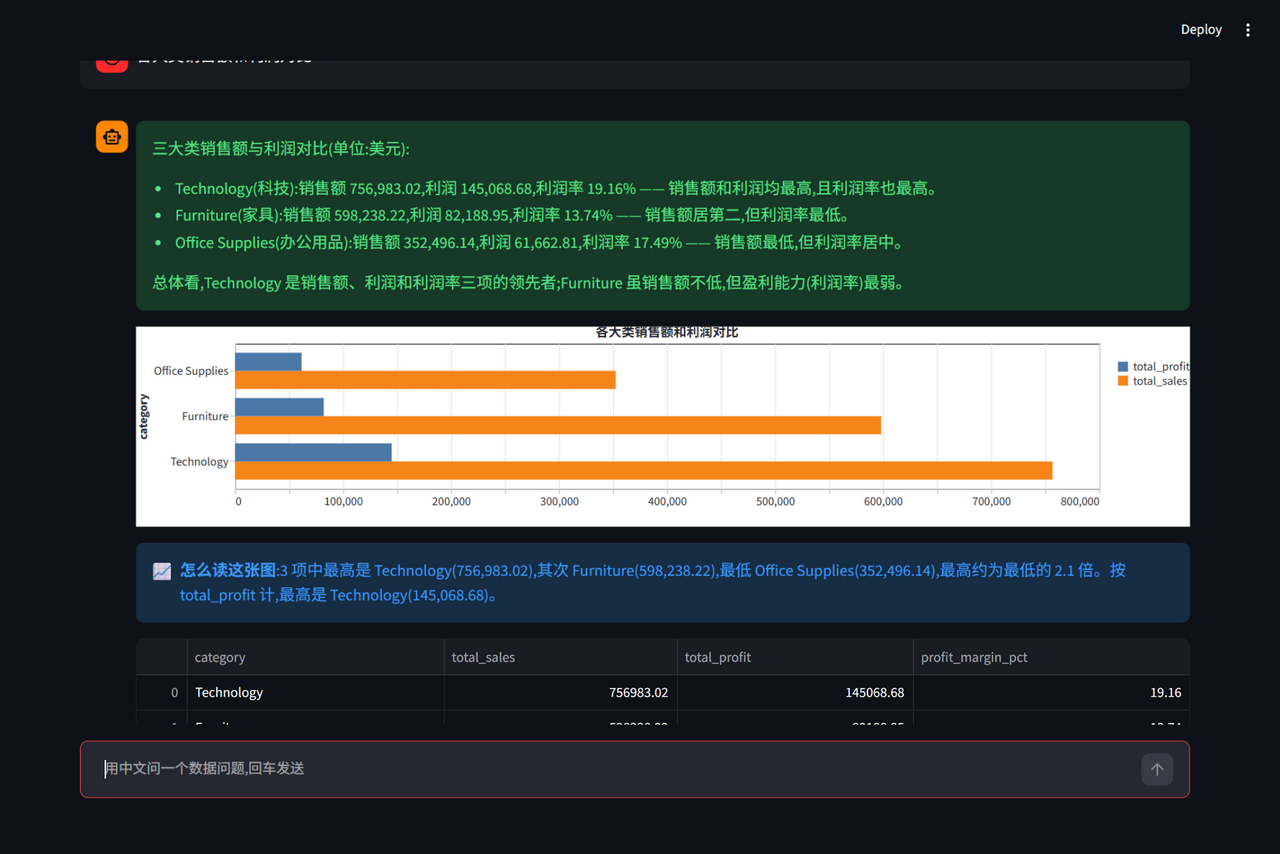
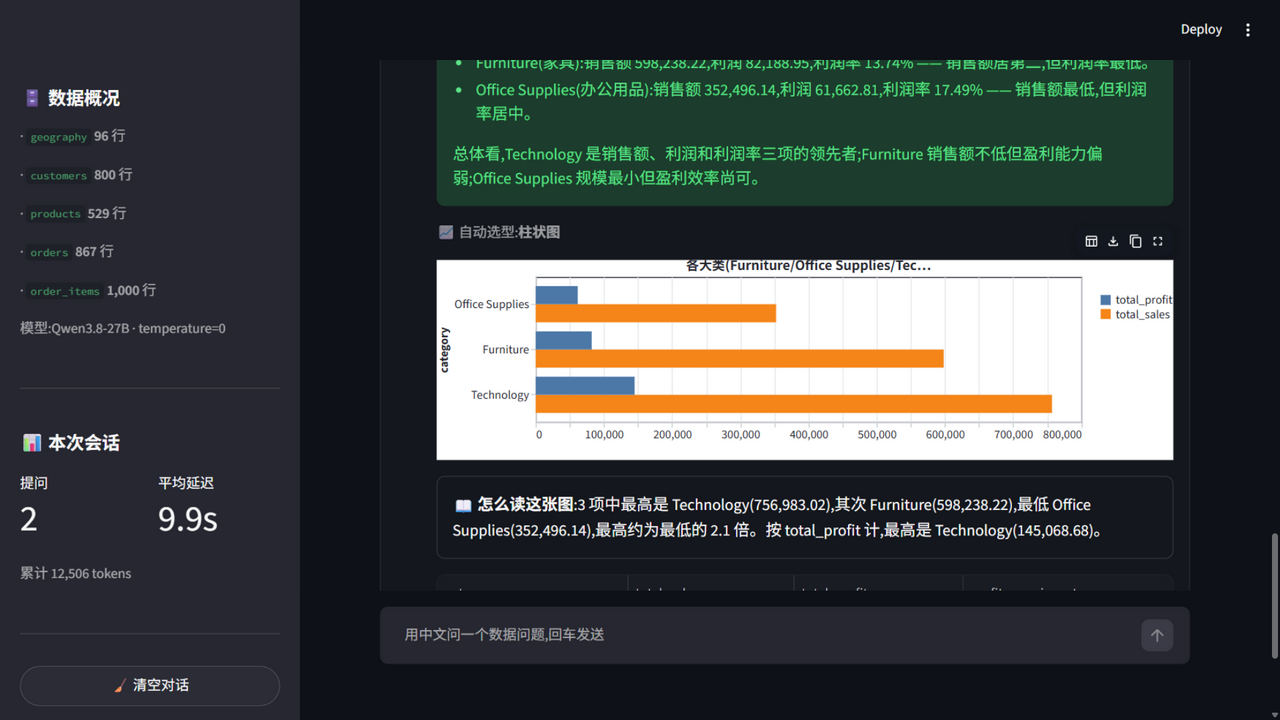
UI 重设计:渐变 hero 横幅 + 可点击示例问题(胶囊按钮直达提问)+ 侧边栏(数据概况实况行数/模型信息/会话统计/清空对话)+ 单值答案大数字 metric 展示 + 图表自动选型标注 + '怎么读这张图'边框卡片 + 统计徽章(延迟/步数/重试/反思/tokens)+ 消息卡片化与胶囊按钮 CSS(半透明配色,深浅主题通用);浏览器实测三图型渲染与点击交互正常,README 三张截图同步更新;测试 78 例

diff --git a/app/ui.py b/app/ui.py
@@ -1,4 +1,4 @@
-"""Streamlit 界面:中文提问 → 结论 + 表格 + SQL/轨迹(排查用)。
+"""Streamlit 界面:中文提问 → 图表 + 解读 + 表格 + SQL/轨迹。
 
 运行:streamlit run app/ui.py
 """
@@ -20,9 +20,62 @@ EXAMPLES = [
     "2014 年销售额最高的 5 个国家是哪些?",
     "各大类(Furniture/Office Supplies/Technology)的销售额和利润对比",
     "亚太市场按月销售额趋势",
-    "哪些客户购买了 3 次以上?列出姓名和消费总额",
-    "折扣超过 0.3 的订单明细,利润怎么样?",
+    "各市场销售额占比",
+    "哪些明细的数量为负或为 0?",
 ]
+
+_CHART_LABEL = {"bar": "柱状图", "hbar": "条形图", "line": "折线图", "arc": "饼图", "point": "散点图"}
+
+# 卡片化消息 + 胶囊按钮 + hero 横幅;颜色用半透明叠加,深浅主题都成立
+_CSS = """
+<style>
+.hero{background:linear-gradient(120deg,#0f2b46 0%,#1d4e89 55%,#2a9d8f 135%);
+ border-radius:14px;padding:22px 26px;margin-bottom:4px;color:#fff}
+.hero-title{font-size:26px;font-weight:700;letter-spacing:.5px}
+.hero-sub{opacity:.92;margin-top:6px;font-size:14.5px}
+.hero-facts{opacity:.72;margin-top:10px;font-size:12.5px}
+[data-testid="stChatMessage"]{border:1px solid rgba(128,128,128,.28);border-radius:14px;
+ padding:12px 16px !important;background:rgba(128,128,128,.05)}
+.stButton>button{border-radius:999px;font-size:12.5px;padding:2px 14px}
+[data-testid="stExpander"]{border-radius:12px}
+.badges span{opacity:.78;font-size:12.5px;margin-right:14px}
+</style>
+"""
+
+
+def _fmt_num(v) -> str:
+    if isinstance(v, float) and v != int(v):
+        return f"{v:,.2f}"
+    return f"{int(v):,}"
+
+
+@st.cache_data(ttl=600, show_spinner=False)
+def _table_counts(db_path: str) -> dict[str, int] | None:
+    try:
+        from app.db import TABLES, connect_ro
+
+        conn = connect_ro(db_path)
+        try:
+            return {t: conn.execute(f"SELECT COUNT(*) FROM {t}").fetchone()[0] for t in TABLES}
+        finally:
+            conn.close()
+    except Exception:
+        return None
+
+
+def _badges(resp: AskResponse) -> None:
+    tok = resp.stats.get("llm_tokens", 0)
+    fail = resp.stats.get("sql_failures", 0)
+    refl = resp.stats.get("reflections", 0)
+    parts = [f"⏱ {resp.latency_ms:,} ms", f"🪜 {len(resp.steps)} 步"]
+    if fail:
+        parts.append(f"🔁 SQL 重试 {fail}")
+    if refl:
+        parts.append(f"🤔 反思 {refl}")
+    if tok:
+        parts.append(f"🧮 {tok:,} tokens")
+    st.markdown('<div class="badges">' + "".join(f"<span>{p}</span>" for p in parts) + "</div>",
+                unsafe_allow_html=True)
 
 
 def _render(resp: AskResponse) -> None:
@@ -30,40 +83,41 @@ def _render(resp: AskResponse) -> None:
         st.error(f"未能完成分析:{resp.error}")
     if resp.summary:
         st.success(resp.summary)
-    if resp.row_count:
+
+    single = (
+        resp.row_count == 1 and len(resp.columns) == 1
+        and isinstance(resp.rows[0][0], (int, float))
+    )
+    if single:
+        col, _ = st.columns([1, 2])
+        col.metric(resp.columns[0], _fmt_num(resp.rows[0][0]))
+        _badges(resp)
+    if resp.row_count and not single:
         if resp.chart_spec:
+            label = _CHART_LABEL.get(resp.chart_spec["mark"]["type"], "图表")
+            st.caption(f"📈 自动选型:**{label}**")
             # theme=None:关闭 Streamlit 的 vega 主题接管(深色模式下它会把文字刷成浅色,
             # 叠在 spec 自带的白底上看不清);spec 内已显式钉死深色文字,双保险
             st.vega_lite_chart(resp.chart_spec, use_container_width=True, theme=None)
         if resp.chart_reading:
-            st.info(f"📈 **怎么读这张图**:{resp.chart_reading}")
-        st.dataframe(pd.DataFrame(resp.rows, columns=resp.columns), use_container_width=True)
-        st.caption(f"{resp.row_count} 行 · {resp.latency_ms} ms")
-    with st.expander("SQL 与执行轨迹"):
+            with st.container(border=True):
+                st.markdown(f"**📖 怎么读这张图**:{resp.chart_reading}")
+        st.dataframe(pd.DataFrame(resp.rows, columns=resp.columns),
+                     use_container_width=True, hide_index=True)
+        st.caption(f"{resp.row_count} 行")
+        _badges(resp)
+    elif not single:
+        _badges(resp)
+    with st.expander("🔍 SQL 与执行轨迹"):
         if resp.sql:
             st.code(resp.sql, language="sql")
         for s in resp.steps:
             icon = "✅" if s.ok else "❌"
-            st.markdown(f"{icon} **步骤{s.step} · {s.tool}** `{s.args}`")
+            st.markdown(f"{icon} **步骤{s.step} · `{s.tool}`** `{s.args}`")
             st.caption(s.detail)
 
 
-st.set_page_config(page_title="ChatBI · 电商订单分析", page_icon="📊", layout="wide")
-st.title("ChatBI · 电商订单分析")
-st.caption("中文提问 → 生成 SQL → 执行 → 图表 + 表格 + 结论(Global Superstore,2012-2015)")
-st.markdown("**示例问题:** " + " · ".join(f"`{e}`" for e in EXAMPLES))
-
-if "history" not in st.session_state:
-    st.session_state.history: list[AskResponse] = []
-
-for resp in st.session_state.history:
-    with st.chat_message("user"):
-        st.write(resp.question)
-    with st.chat_message("assistant"):
-        _render(resp)
-
-question = st.chat_input("用中文问一个数据问题,回车发送")
-if question:
+def _handle(question: str) -> None:
     with st.chat_message("user"):
         st.write(question)
     with st.chat_message("assistant"):
@@ -71,3 +125,74 @@ if question:
             resp = get_service().ask(question)
         _render(resp)
     st.session_state.history.append(resp)
+
+
+def _sidebar() -> None:
+    from app.config import get_settings
+
+    with st.sidebar:
+        st.markdown("### 🗄 数据概况")
+        counts = _table_counts(get_settings().db_path)
+        if counts:
+            for t, n in counts.items():
+                st.caption(f"· `{t}` **{n:,}** 行")
+        else:
+            st.caption("5 张关联表(geography / customers / products / orders / order_items)")
+        st.caption(f"模型:{get_settings().llm_model} · temperature=0")
+
+        st.divider()
+        st.markdown("### 📊 本次会话")
+        h = st.session_state.history
+        if h:
+            avg = sum(r.latency_ms for r in h) / len(h)
+            tok = sum(r.stats.get("llm_tokens", 0) for r in h)
+            c1, c2 = st.columns(2)
+            c1.metric("提问", len(h))
+            c2.metric("平均延迟", f"{avg / 1000:.1f}s")
+            st.caption(f"累计 {tok:,} tokens")
+        else:
+            st.caption("还没有提问,从上面的示例开始 👆")
+
+        st.divider()
+        if st.button("🧹 清空对话", use_container_width=True):
+            st.session_state.history = []
+            st.rerun()
+        st.caption("只读连接 · SQL 护栏 · 超时 5s · 自愈重试上限 3")
+
+
+st.set_page_config(page_title="ChatBI · 电商订单分析", page_icon="📊", layout="wide")
+st.markdown(_CSS, unsafe_allow_html=True)
+st.markdown(
+    """<div class="hero">
+  <div class="hero-title">📊 ChatBI · 电商订单分析</div>
+  <div class="hero-sub">中文提问 → 生成 SQL → 自愈执行 → 图表 + 解读 + 结论,数字全部来自本地执行</div>
+  <div class="hero-facts">Global Superstore · 5 张关联表 · 2012–2015 · 注入 5 类确定性脏数据</div>
+</div>""",
+    unsafe_allow_html=True,
+)
+
+if "history" not in st.session_state:
+    st.session_state.history: list[AskResponse] = []
+
+_sidebar()
+
+with st.container(border=True):
+    st.markdown("**💡 试试这些问题**(点击直接提问)")
+    cols = st.columns(len(EXAMPLES))
+    for i, (col, q) in enumerate(zip(cols, EXAMPLES)):
+        if col.button(q if len(q) <= 14 else q[:13] + "…", key=f"example-{i}", use_container_width=True):
+            st.session_state.pending = q
+
+for resp in st.session_state.history:
+    with st.chat_message("user"):
+        st.write(resp.question)
+    with st.chat_message("assistant"):
+        _render(resp)
+
+pending_question = st.session_state.pop("pending", None)
+if pending_question:
+    _handle(pending_question)
+
+question = st.chat_input("用中文问一个数据问题,回车发送")
+if question:
+    _handle(question)
